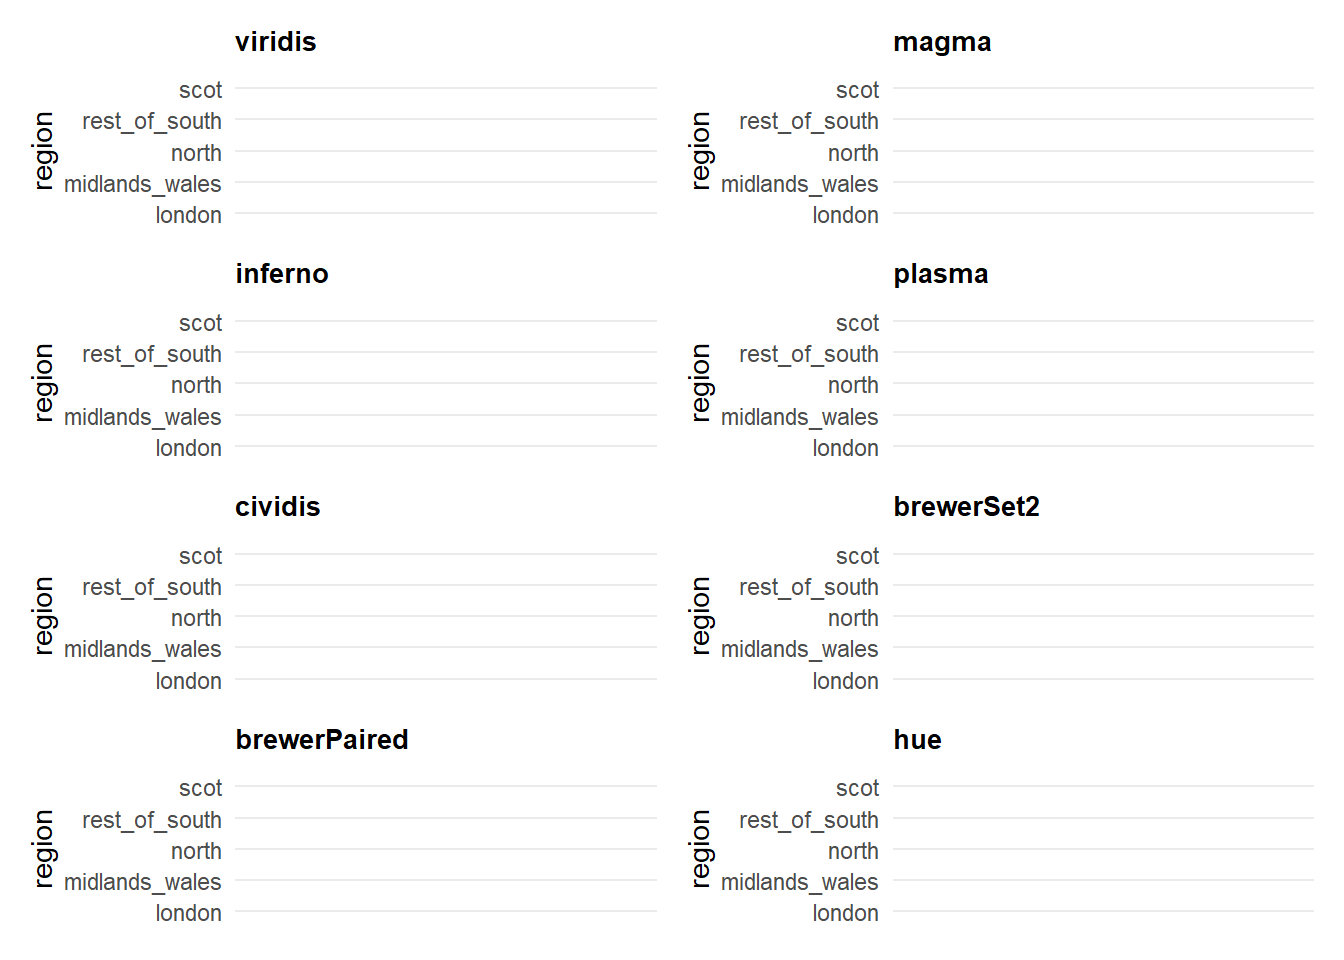
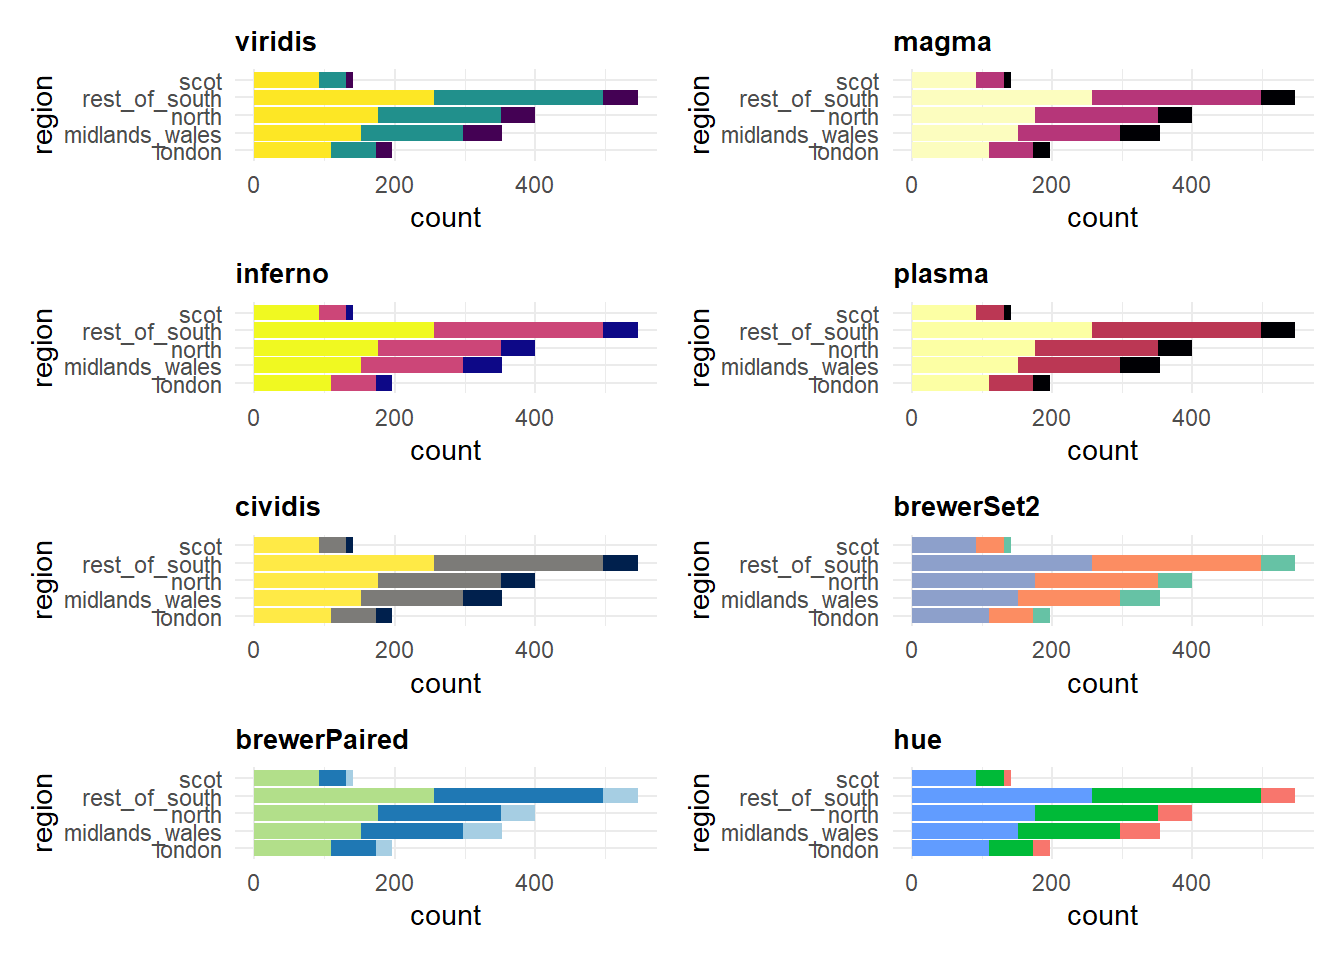
started p4

diff --git a/docs/p10.html b/docs/p10.html
@@ -348,7 +348,7 @@ ggplot(brexit, aes(y = region, fill = opinion)) +
 <p>For the plot with only three colors, the colors are fairly
 distinguishable but not great and in the plot with five colors the pink
 (?) and blue are difficult to tell apart at a glance.</p>
-<p>Here are the same plot with the viridis scale</p>
+<p>Here are the same plots with the viridis scale</p>
 <pre class="r"><code>library(viridis)</code></pre>
 <pre><code>## Warning: package &#39;viridis&#39; was built under R version 4.4.3</code></pre>
 <pre><code>## Loading required package: viridisLite</code></pre>
@@ -366,8 +366,10 @@ distinguishable but not great and in the plot with five colors the pink
   scale_fill_viridis(discrete = TRUE) +
   facet_wrap(~region, nrow = 1)</code></pre>
 <p><img src="p10_files/figure-html/brexitvirdis-3.png" width="672" /></p>
+<p>Using the viridis color palette, the plot with five colors is much
+easier to distinguish between colors for me. There is not much
+improvement for the three color plot.</p>
 <pre class="r"><code>library(ggplot2)
-library(viridis)
 library(RColorBrewer)
 library(patchwork)</code></pre>
 <pre><code>## Warning: package &#39;patchwork&#39; was built under R version 4.4.3</code></pre>
@@ -388,6 +390,7 @@ palettes &lt;- list(
 # note: scale object *first*, then name
 make_palette_plot &lt;- function(pal_scale, pal_name) {
   ggplot(brexit, aes(y = region, fill = opinion)) +
+    geom_bar()+
     pal_scale +
     ggtitle(pal_name) +
     theme_minimal() +
@@ -403,9 +406,8 @@ plots &lt;- purrr::map2(palettes, names(palettes), make_palette_plot)
 # and patchwork as before
 wrap_plots(plots, ncol = 2)</code></pre>
 <p><img src="p10_files/figure-html/colors1-1.png" width="672" /></p>
-<p>Using the viridis color palette, the plot with five colors is much
-easier to distinguish between colors for me. There is not much
-improvement for the three color plot.</p>
+<p>From these, the best ones for me are: Viridis inferno
+Brewerpaired</p>
 
 
 
